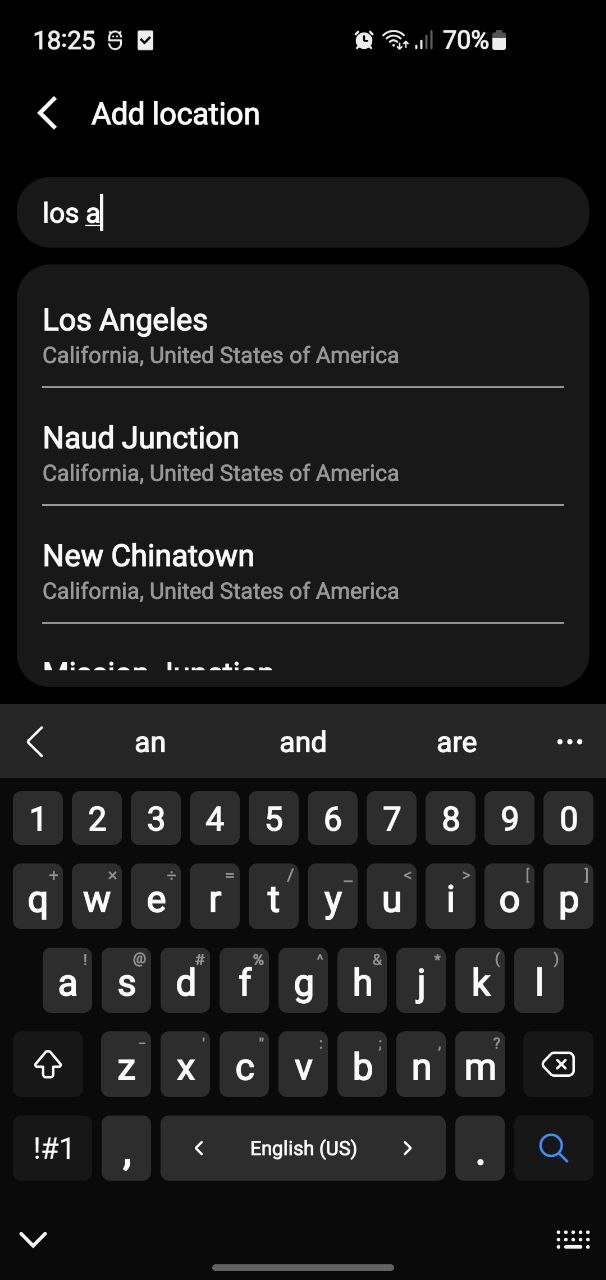
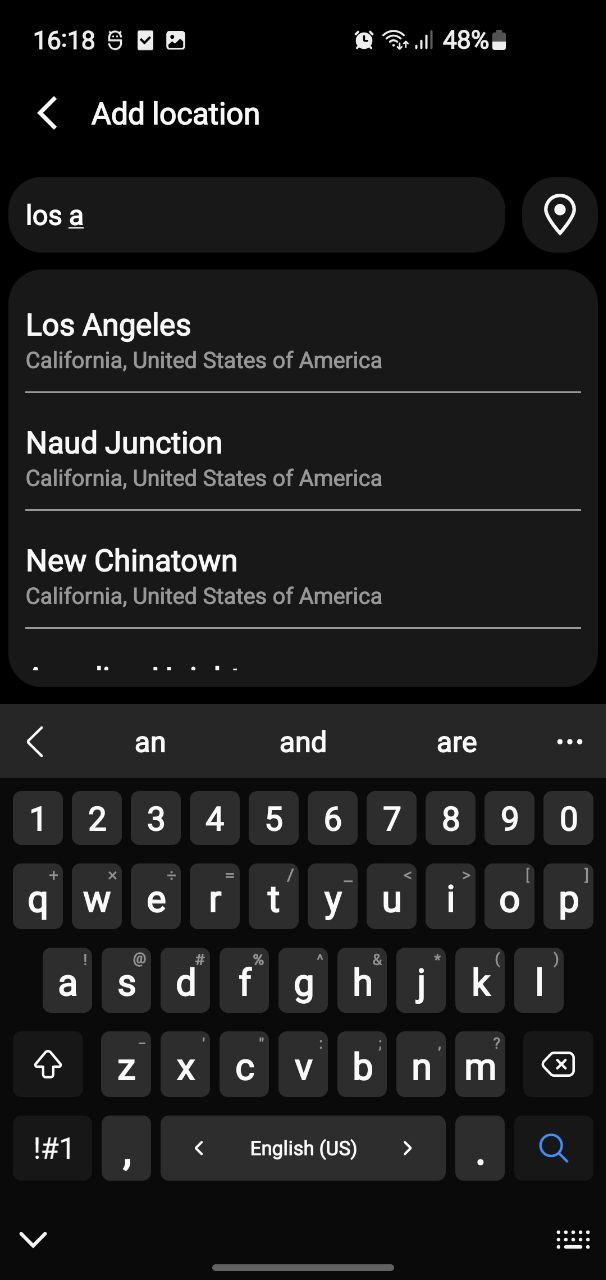
update readme

diff --git a/README.md b/README.md
@@ -2,8 +2,7 @@
 Погодное приложение для Android
 
 ## Сборка и запуск
-Для того что бы собрать проект необходимо в корне проекта создать файл app.properties (по аналогии с .app.properties)
-и указать в поле weatherApiKey ключ для доступа к апи 
+Для того что бы собрать проект необходимо в корне проекта создать файл app.properties (по аналогии с .app.properties)и указать в поле weatherApiKey ключ для доступа к апи
 
 Ключ можно бесплатно получить зарегистрировавшись на https://www.weatherapi.com/
 
@@ -23,9 +22,11 @@
 * сетевое взаимодействие - OkHttp, Retrofit
 * доступ к БД - Room
 * DI - Dagger2
+* OpenStreetMap (т.к. Google Play сервисы на данный момент не работают в России)
 
 ## Скриншоты
 
 <img src="screenshots/home_night.jpg" width="270"> <img src="screenshots/home_day.jpg" width="270">
-<img src="screenshots/manage_locations.jpg" width="270"> <img src="screenshots/manage_locations2.jpg" width="270">
-<img src="screenshots/add_location.jpg" width="270"> <img src="screenshots/settings.jpg" width="270">
+<img src="screenshots/settings.jpg" width="270"> <img src="screenshots/manage_locations.jpg" width="270"> 
+<img src="screenshots/manage_locations2.jpg" width="270"> <img src="screenshots/add_location.jpg" width="270">
+<img src="screenshots/add_location_map.jpg" width="270"> 
